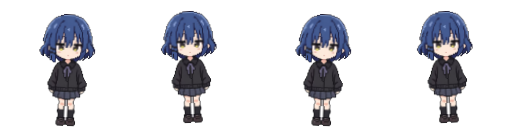
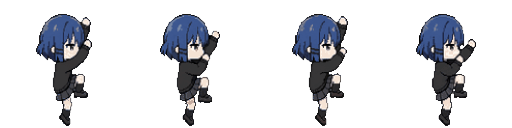
feat(assets): 正式攀爬/坐顶素材——两条专用管线 + 搁板回归
- climbing：tools/gen_climb_from_photos.py 从透明底 4 帧源图
  assets/src/climbing2.png 生成；内容右对齐（右空 36 列）配套渲染层
  CLING_MARGIN=36 贴边推出量，替换 B 方案站姿仿射的假爬
- sitting_top：tools/gen_sit_from_photos.py 从透明底单帧源图
  assets/src/sit.png 生成；程序绘制暖木色搁板横贯整帧（v0.1 占位版
  同语义同配色，伸出屏幕缘一端被裁剪读作侧壁探出的板），板托臀部
  坐线 LEDGE_TOP=89（验收：先上移 25px 再下移 10px 定稿）；单帧源图
  做不了逐腿晃荡，微动画改绕底部锚点呼吸起伏，fps 8->4 同 idle 节奏
- 源图入库 assets/src/，管线可复现；assets/README 补管线说明

diff --git a/tools/gen_sit_from_photos.py b/tools/gen_sit_from_photos.py
@@ -1,0 +1,142 @@
+"""从单帧坐姿源图生成 sitting_top sheet（正式坐顶素材第一单）。
+
+源图：assets/src/sit.png —— 透明背景 PNG、单帧正面坐姿（双手撑地、腿前
+伸）。产物与其余动作同约定：128x128 帧、透明背景横排 sheet；帧数/帧率写回
+manifest.json。
+
+画面构成（验收反馈：不能虚空坐着，要和 v0.1 占位版一样有支撑物）：
+  1. 搁板：暖木色横板横贯整帧宽 0..127（板面 + 板底暗边做出厚度）。渲染层
+     会把坐姿窗口向墙外推出 36 列，搁板伸出屏幕边缘的一端被自然裁剪，读作
+     "固定在侧壁上探出来的小搁板"——与 v0.1 占位素材 draw_sitting_top 的
+     搁板语义、配色（LEDGE/LEDGE_DARK）完全一致；
+  2. 角色：臀部压在搁板板面上、小腿/鞋叠画在板前并垂到板下（悬空晃荡感）。
+     板托在臀部坐线而不是包围盒底行——坐姿包围盒最低点是前伸的鞋底，板
+     画在鞋底行会让屁股悬空读作虚空坐（验收反馈：板上移 ~25px）；
+  3. 水平**右对齐**（内容右缘第 91 列、右空 36 列）：与 climbing 同规则，
+     配套 pet_window.CLING_MARGIN_LOGICAL=36 的贴边推出量；左壁渲染用镜像
+     帧，同一条规则两面墙都成立；
+  4. 微动画：单帧源图做不了逐腿摆动（腿是整图的一部分），改为绕底部锚点的
+     呼吸起伏（sy 1→1.03→1，屁股不离板、头顶微微起伏）；日后要真晃腿需提
+     供多帧源图走抽卡管线。
+
+本脚本是 sitting_top sheet 的唯一生成者：gen_assets_from_photos.py 重跑时
+只读盘拼总览、不再覆写该文件。
+
+用法（项目根目录）：.venv\\Scripts\\python tools\\gen_sit_from_photos.py
+换源图：--src <路径>
+"""
+import argparse
+import json
+import sys
+from pathlib import Path
+
+try:
+    from PIL import Image, ImageDraw, ImageFont
+except ImportError:  # 缺 Pillow 时给出可执行的提示，而不是裸 traceback
+    sys.exit("需要 Pillow（仅开发工具依赖）：.venv\\Scripts\\python -m pip install pillow")
+
+ROOT = Path(__file__).resolve().parent.parent
+SRC_PATH = ROOT / "assets" / "src" / "sit.png"  # 默认源图（透明底单帧坐姿）
+ASSETS_DIR = ROOT / "assets"
+PREVIEW_PATH = ROOT / "xinsucai" / "sit_preview.png"
+
+FRAME = 128          # 目标帧尺寸（与 manifest frame_size 一致）
+RIGHT_EDGE = 91      # 角色内容右缘列号：右空 36 列，配套 CLING_MARGIN_LOGICAL
+CONTENT_MAX_W = RIGHT_EDGE + 1   # 右对齐下角色可用最大宽度（左缘顶到第 0 列）
+CONTENT_MAX_H = 103  # 角色最大高度：头顶留余量给呼吸拉伸
+CHAR_BOTTOM = 109    # 角色内容底边行号（鞋底）：鞋垂在搁板下沿之下=悬空晃荡
+# 搁板板面首行：验收反馈先上移 25px（104→79，板托臀部坐线而非鞋底行）、
+# 再下移 10px 定稿（79→89）。板面往下 6 行 + 暗边 2 行，小腿/鞋叠画在
+# 板前并垂到板下
+LEDGE_TOP = 89
+LEDGE_FACE = (150, 115, 80, 255)    # 板面暖木色（v0.1 占位版 LEDGE 同值）
+LEDGE_DARK = (100, 72, 48, 255)     # 板底暗边（v0.1 占位版 LEDGE_DARK 同值）
+LEDGE_FACE_H = 6     # 板面行数
+LEDGE_EDGE_H = 2     # 板底暗边行数（做出板的厚度）
+# 呼吸起伏配方：(sy, ) 绕底部锚点纵向拉伸——屁股贴板不动、头顶微升
+BREATH_SY = (1.0, 1.015, 1.03, 1.015)
+SIT_FPS = 4          # 4 帧呼吸周期 1s，与 idle 呼吸同节奏
+
+
+def build_frames(char: Image.Image) -> list:
+    """单帧坐姿按呼吸配方派生 4 帧：右对齐 + 屁股压板面 + 先板后人。"""
+    scale = min(CONTENT_MAX_W / char.width, CONTENT_MAX_H / char.height)
+    nw = max(1, round(char.width * scale))
+    nh = max(1, round(char.height * scale))
+    print(f"源坐姿包围盒 {char.width}x{char.height}，缩放比 {scale:.4f} -> {nw}x{nh}")
+    x = RIGHT_EDGE + 1 - nw  # 右对齐：右空恰好 36 列
+    frames = []
+    for sy in BREATH_SY:
+        nh_i = max(1, round(nh * sy))
+        body = char.resize((nw, nh_i), Image.BOX)  # BOX：像素风降采样无振铃
+        frame = Image.new("RGBA", (FRAME, FRAME), (0, 0, 0, 0))
+        # 先画搁板（横贯整帧，伸出屏幕缘的一端由渲染裁剪读作"壁探出的板"）；
+        # 板托在臀部坐线，小腿/鞋随后叠画在板前并垂到板下（悬空晃荡感）
+        d = ImageDraw.Draw(frame)
+        d.rectangle((0, LEDGE_TOP, FRAME - 1, LEDGE_TOP + LEDGE_FACE_H - 1),
+                    fill=LEDGE_FACE)
+        d.rectangle((0, LEDGE_TOP + LEDGE_FACE_H, FRAME - 1,
+                     LEDGE_TOP + LEDGE_FACE_H + LEDGE_EDGE_H - 1),
+                    fill=LEDGE_DARK)
+        # 后画角色：鞋底垂到板下、臀部压在板面上 = 坐在板沿
+        frame.paste(body, (x, CHAR_BOTTOM - nh_i + 1), body)
+        frames.append(frame)
+    return frames
+
+
+def to_sheet(frames: list) -> Image.Image:
+    """帧序列横排拼成 sprite sheet。"""
+    sheet = Image.new("RGBA", (FRAME * len(frames), FRAME), (0, 0, 0, 0))
+    for i, f in enumerate(frames):
+        sheet.paste(f, (i * FRAME, 0), f)
+    return sheet
+
+
+def main() -> int:
+    ap = argparse.ArgumentParser(description="从单帧坐姿源图生成 sitting_top sheet（详见模块 docstring）")
+    ap.add_argument("--src", type=Path, default=SRC_PATH, help="源图路径（透明底单帧）")
+    args = ap.parse_args()
+
+    manifest = json.loads((ASSETS_DIR / "manifest.json").read_text(encoding="utf-8"))
+    src = Image.open(args.src)
+    if src.mode != "RGBA":
+        sys.exit(f"源图模式为 {src.mode}，预期 RGBA 透明背景；带底色源图请先抠底")
+    box = src.getbbox()
+    if box is None:
+        sys.exit("源图全透明，没有可用的坐姿内容")
+    frames = build_frames(src.crop(box))
+    sheet = to_sheet(frames)
+    fname = manifest["actions"]["sitting_top"]["file"]
+    sheet.save(ASSETS_DIR / fname)
+    manifest["actions"]["sitting_top"]["frames"] = len(frames)
+    manifest["actions"]["sitting_top"]["fps"] = SIT_FPS
+    (ASSETS_DIR / "manifest.json").write_text(
+        json.dumps(manifest, ensure_ascii=False, indent=2) + "\n", encoding="utf-8")
+    print(f"  sitting_top: {len(frames)} 帧 -> {fname}")
+
+    # 总览图：灰底 + idle/climbing 两行供比对身形大小与地平面
+    rows = [("sitting_top", frames)]
+    for name in ("climbing", "idle"):
+        s = Image.open(ASSETS_DIR / manifest["actions"][name]["file"])
+        n = manifest["actions"][name]["frames"]
+        rows.append((name, [s.crop((i * FRAME, 0, (i + 1) * FRAME, FRAME))
+                            for i in range(n)]))
+    label_w = 110
+    max_frames = max(len(f) for _, f in rows)
+    preview = Image.new("RGB", (label_w + max_frames * FRAME,
+                                len(rows) * (FRAME + 4) + 4), (96, 96, 96))
+    draw = ImageDraw.Draw(preview)
+    font = ImageFont.load_default()
+    for row, (name, fs) in enumerate(rows):
+        y = 4 + row * (FRAME + 4)
+        draw.text((6, y + FRAME // 2), name, fill=(255, 255, 255), font=font)
+        for i, f in enumerate(fs):
+            preview.paste(f, (label_w + i * FRAME, y), f)
+    PREVIEW_PATH.parent.mkdir(parents=True, exist_ok=True)
+    preview.save(PREVIEW_PATH)
+    print(f"总览图: {PREVIEW_PATH}")
+    return 0
+
+
+if __name__ == "__main__":
+    sys.exit(main())

diff --git a/tools/gen_climb_from_photos.py b/tools/gen_climb_from_photos.py
@@ -1,0 +1,148 @@
+"""从 4 帧攀爬源图生成 climbing sheet（正式攀爬素材第一单）。
+
+源图：assets/src/climbing2.png —— 透明背景 PNG、4 帧横排、角色朝右的
+攀爬循环。产物与其余动作同约定：128x128 帧、脚底踩 y=126、透明背景横排
+sheet；帧数/帧率写回 manifest.json（4 帧 @8fps，与 B 方案同值）。
+
+与 gen_walk_from_photos.py 流水线的差异点（为什么单独一个脚本）：
+  1. 源图已是透明背景 PNG：不需要泛洪抠底，也不需要白边光晕清理（那两
+     步分别服务于黑底/白底 JPG 源图）；
+  2. 水平方向**右对齐**而不是居中：内容右缘落在第 91 列、右空 36 列，与
+     pet_window.CLING_MARGIN_LOGICAL=36 的贴边推出量配套——右壁推出 36
+     后手掌正好搭住屏幕右缘；左壁渲染用水平镜像帧，其左空 36 列由本帧右
+     空镜像而来，同一条对齐规则两面墙都成立（居中摆放会让手离墙差一截）；
+  3. 帧分割仍按"全空列"切：源图帧间距不保证均匀，等分宽度可能切到手臂。
+
+朝向约定（assets/README.md）：sheet 存朝右原帧；左壁由渲染层镜像。
+本脚本是 climbing sheet 的唯一生成者：gen_assets_from_photos.py 重跑时
+只读盘拼总览、不再覆写该文件。
+
+用法（项目根目录）：.venv\\Scripts\\python tools\\gen_climb_from_photos.py
+换源图：--src <路径>
+"""
+import argparse
+import json
+import sys
+from pathlib import Path
+
+try:
+    from PIL import Image, ImageDraw, ImageFont
+except ImportError:  # 缺 Pillow 时给出可执行的提示，而不是裸 traceback
+    sys.exit("需要 Pillow（仅开发工具依赖）：.venv\\Scripts\\python -m pip install pillow")
+
+ROOT = Path(__file__).resolve().parent.parent
+SRC_PATH = ROOT / "assets" / "src" / "climbing2.png"  # 默认源图（透明底 4 帧）
+ASSETS_DIR = ROOT / "assets"
+PREVIEW_PATH = ROOT / "xinsucai" / "climb_preview.png"
+
+FRAME = 128          # 目标帧尺寸（与 manifest frame_size 一致）
+ANCHOR_Y = 126       # 内容底边落点：与 B 方案 ANCHOR 同值，各动作同地平面
+CONTENT_MAX_H = 112  # 内容最大高度：与 B 方案/walk 同值，保证身形大小一致
+CONTENT_MAX_W = FRAME - 8
+RIGHT_EDGE = 91      # 内容右缘列号：右空 36 列，配套 CLING_MARGIN_LOGICAL
+CLIMB_FPS = 8        # 与 manifest 现值一致（B 方案攀爬帧率，观感已验收）
+EXPECTED_FRAMES = 4  # 源图帧数：分割结果不符即报错，避免切错帧写坏 sheet
+
+
+def split_frames(rgba: Image.Image) -> list:
+    """按全空列（整列 alpha=0）把整图逐帧切开，返回 RGBA 段列表。"""
+    w, h = rgba.size
+    a = rgba.getchannel("A").tobytes()
+    # 每列是否有内容：全空列才是帧间可靠分界（等分宽度可能切到摆臂）
+    col_has = [any(a[y * w + x] for y in range(0, h, 2)) for x in range(w)]
+    segs, start = [], None
+    for x in range(w + 1):
+        has = x < w and col_has[x]
+        if has and start is None:
+            start = x
+        elif not has and start is not None:
+            if x - start >= 8:  # 宽度 <8px 的段是噪点孤岛，丢弃
+                segs.append(rgba.crop((start, 0, x, h)))
+            start = None
+    return segs
+
+
+def build_frames(segs: list) -> list:
+    """4 段统一缩放塞进 128x128 帧：底边贴 ANCHOR_Y、右缘贴 RIGHT_EDGE。
+
+    缩放比取"最宽帧、最高帧"都能塞下的最小值并全帧共用：逐帧各自 fit 会
+    让攀爬循环里身形忽大忽小地闪。BOX 降采样对像素风源图振铃最少。
+    """
+    boxes = [s.getbbox() for s in segs]  # alpha 非零包围盒
+    max_w = max(b[2] - b[0] for b in boxes)
+    max_h = max(b[3] - b[1] for b in boxes)
+    scale = min(CONTENT_MAX_W / max_w, CONTENT_MAX_H / max_h)
+    print(f"源帧包围盒最大 {max_w}x{max_h}，统一缩放比 {scale:.4f}")
+    frames = []
+    for seg, box in zip(segs, boxes):
+        char = seg.crop(box)
+        nw = max(1, round(char.width * scale))
+        nh = max(1, round(char.height * scale))
+        char = char.resize((nw, nh), Image.BOX)
+        # 右对齐：右空恰好 36 列（贴边推出量配套，见模块 docstring 第 2 点）
+        x = RIGHT_EDGE + 1 - nw
+        if x < 0:
+            sys.exit(f"缩放后内容宽 {nw} 超过右对齐可用宽度 {RIGHT_EDGE + 1}："
+                     f"调小 CONTENT_MAX_H 或检查源图")
+        frame = Image.new("RGBA", (FRAME, FRAME), (0, 0, 0, 0))
+        frame.paste(char, (x, ANCHOR_Y - nh), char)
+        frames.append(frame)
+    return frames
+
+
+def to_sheet(frames: list) -> Image.Image:
+    """帧序列横排拼成 sprite sheet。"""
+    sheet = Image.new("RGBA", (FRAME * len(frames), FRAME), (0, 0, 0, 0))
+    for i, f in enumerate(frames):
+        sheet.paste(f, (i * FRAME, 0), f)
+    return sheet
+
+
+def main() -> int:
+    ap = argparse.ArgumentParser(description="从 4 帧攀爬源图生成 climbing sheet（详见模块 docstring）")
+    ap.add_argument("--src", type=Path, default=SRC_PATH, help="源图路径（透明底横排帧条）")
+    args = ap.parse_args()
+
+    manifest = json.loads((ASSETS_DIR / "manifest.json").read_text(encoding="utf-8"))
+    src = Image.open(args.src)
+    if src.mode != "RGBA":
+        sys.exit(f"源图模式为 {src.mode}，预期 RGBA 透明背景；带底色源图请先抠底")
+    segs = split_frames(src)
+    if len(segs) != EXPECTED_FRAMES:
+        sys.exit(f"源图切出 {len(segs)} 段，预期 {EXPECTED_FRAMES} 段："
+                 f"检查帧间是否有全空列分隔")
+    frames = build_frames(segs)
+    sheet = to_sheet(frames)
+    fname = manifest["actions"]["climbing"]["file"]
+    sheet.save(ASSETS_DIR / fname)
+    manifest["actions"]["climbing"]["frames"] = len(frames)
+    manifest["actions"]["climbing"]["fps"] = CLIMB_FPS
+    (ASSETS_DIR / "manifest.json").write_text(
+        json.dumps(manifest, ensure_ascii=False, indent=2) + "\n", encoding="utf-8")
+    print(f"  climbing: {len(frames)} 帧 -> {fname}")
+
+    # 总览图：灰底（透明 PNG 在黑色查看器里会误判）+ 一行 idle 供比对身形大小
+    idle_sheet = Image.open(ASSETS_DIR / manifest["actions"]["idle"]["file"])
+    idle_n = manifest["actions"]["idle"]["frames"]
+    rows = [("climbing", frames),
+            ("idle", [idle_sheet.crop((i * FRAME, 0, (i + 1) * FRAME, FRAME))
+                      for i in range(idle_n)])]
+    label_w = 110
+    max_frames = max(len(f) for _, f in rows)
+    preview = Image.new("RGB", (label_w + max_frames * FRAME,
+                                len(rows) * (FRAME + 4) + 4), (96, 96, 96))
+    draw = ImageDraw.Draw(preview)
+    font = ImageFont.load_default()
+    for row, (name, fs) in enumerate(rows):
+        y = 4 + row * (FRAME + 4)
+        draw.text((6, y + FRAME // 2), name, fill=(255, 255, 255), font=font)
+        for i, f in enumerate(fs):
+            preview.paste(f, (label_w + i * FRAME, y), f)
+    PREVIEW_PATH.parent.mkdir(parents=True, exist_ok=True)
+    preview.save(PREVIEW_PATH)
+    print(f"总览图: {PREVIEW_PATH}")
+    return 0
+
+
+if __name__ == "__main__":
+    sys.exit(main())
